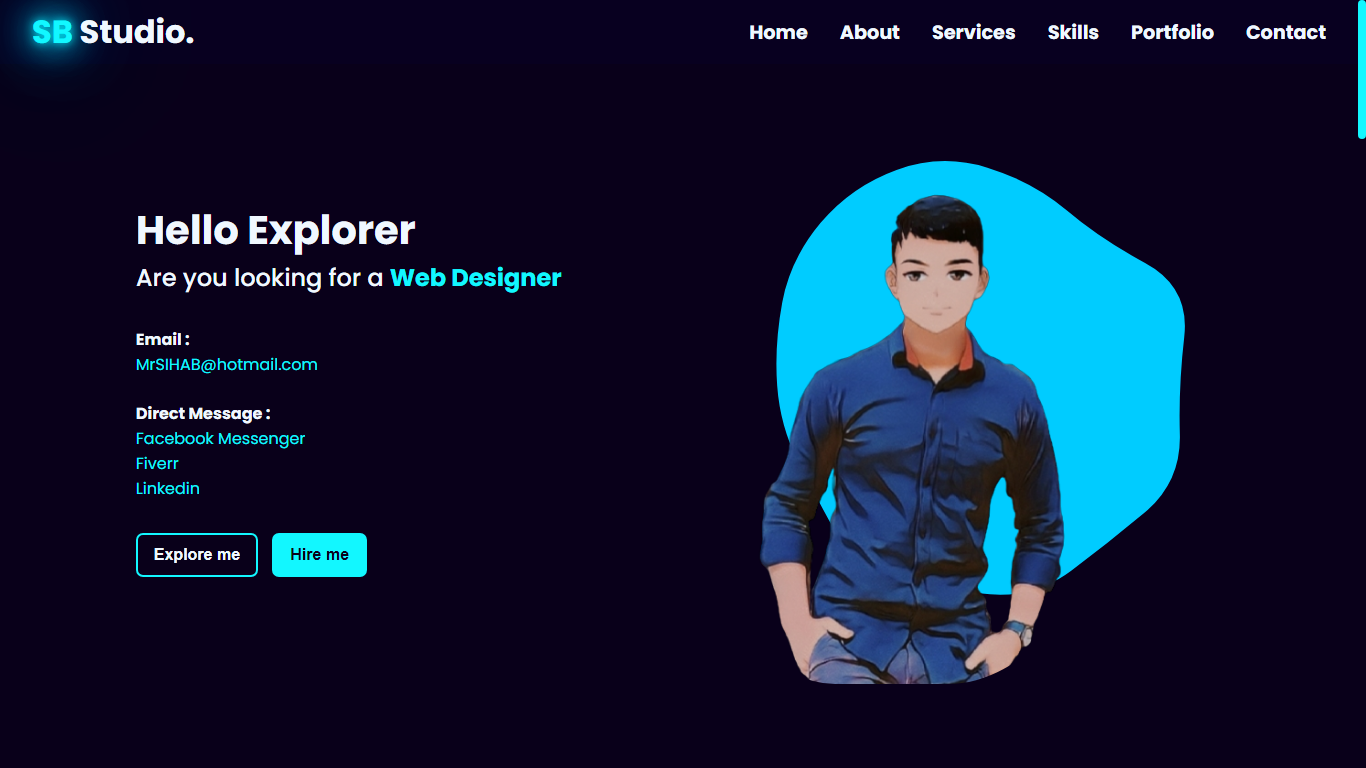
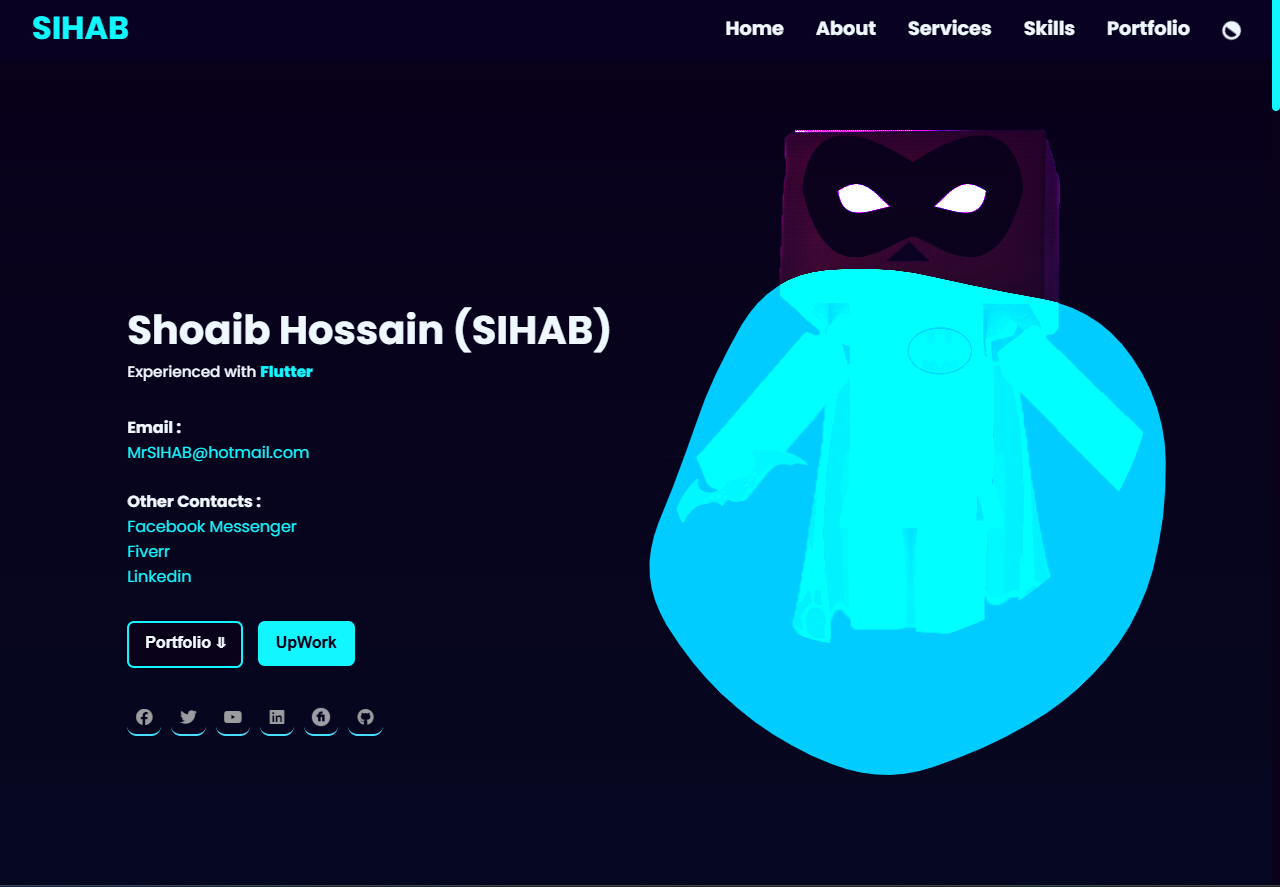
Cryptora vpn and image update

diff --git a/postData.js b/postData.js
@@ -29,6 +29,19 @@ const data = [
               Available on VS-Code marketplace. See more on github...`,
     link: "https://github.com/MrSIHAB/vscode-mathab",
   },
+  {
+    imgSrc: "img/cryptora-vpn.png",
+    title: "Cryptora VPN",
+    description: `
+      Cryptora VPN was a Freelancer.com project For my client.
+      This was a vpn built with WireGuard protocol with a lots of features.
+      Such as Split-Tunneling, Speed Test, TV and Mobile responsiveness and so on.
+      <br />
+      See more...
+      `,
+    link:
+      "https://www.freelancer.com/portfolio-items/10530266-cryptora-vpn-wireguard-protocol",
+  },
 ];
 
 const PortfolioParent = document.getElementById("post-parent");
@@ -39,7 +52,7 @@ const postCardTemplate = ({ imgSrc, title, description, link }) => {
                 <div class="info">
                     <h5>${title}</h5>
                     <p>
-                     <airticle>${description}</airticle>
+                     <article>${description}</article>
                     </p>
                     <a href="${link}">
                         <button class="btn">
